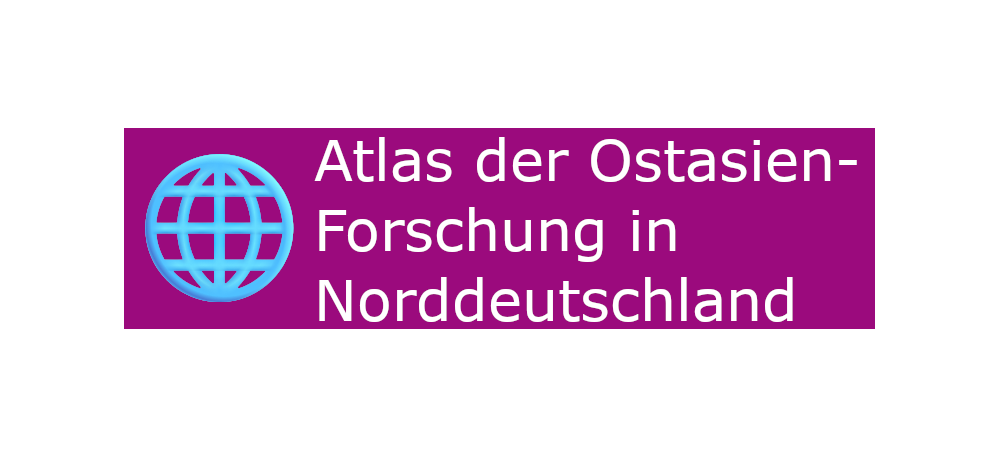
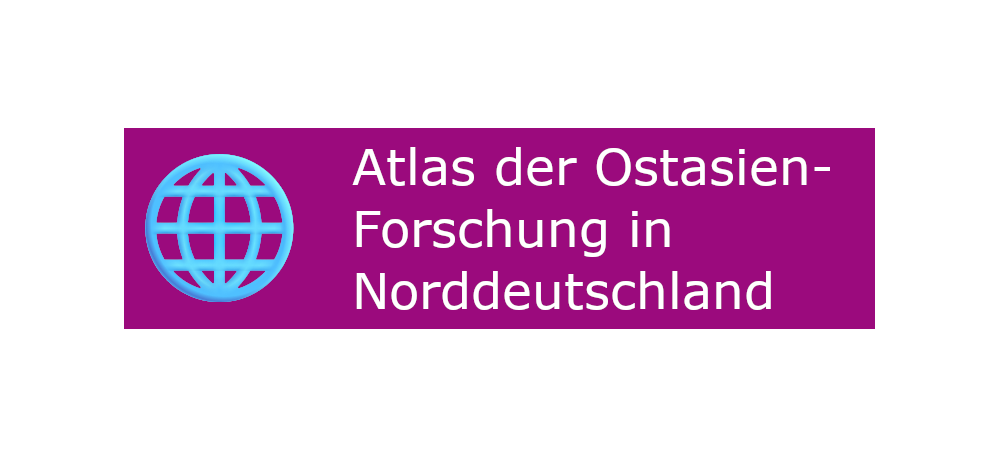
corrections

Changed region(s): [[0.31, 0.3063, 0.868, 0.4289], [0.31, 0.5821, 0.806, 0.7046], [0.31, 0.4595, 0.682, 0.5821]]

diff --git a/content/projects/atlas/index.md b/content/projects/atlas/index.md
@@ -1,7 +1,9 @@
 ---
-title: "Atlas der Ostasien-Forschug in Norddeutschland"
+
+title: "Atlas der Ostasien-Forschung in Norddeutschland"
 date: 2025-07-01
 draft: false
 tags: ["projects"]
 externalUrl: "https://turban.shinyapps.io/chikon/"
+
 ---
